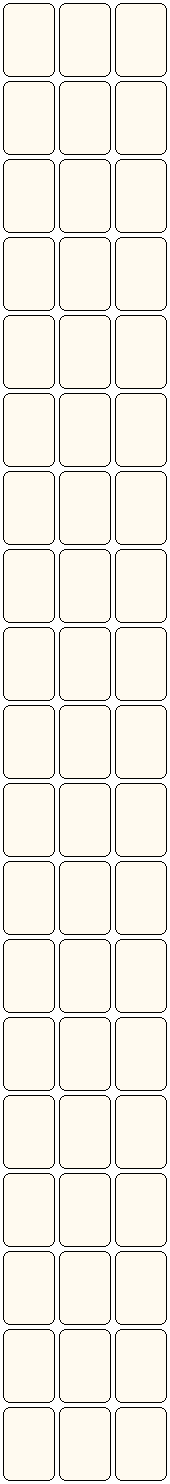
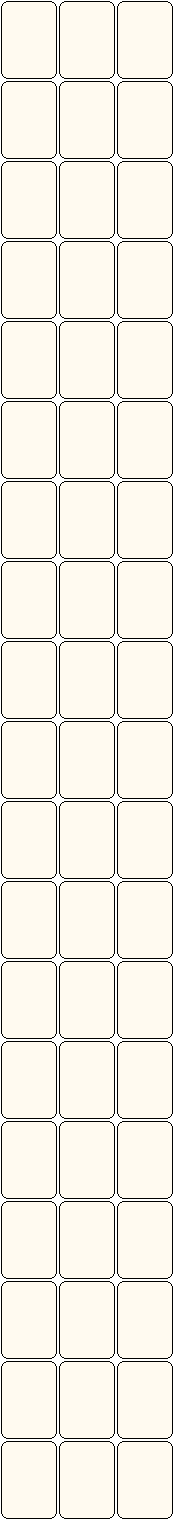
new card-writer for larger size; game settings adjusted

Changed region(s): [[0.0, 0.0, 1.0, 1.0]]

diff --git a/src/scenes/game-scene.ts b/src/scenes/game-scene.ts
@@ -6,11 +6,12 @@ import { FoundationPile } from '../lib/foundation-pile';
 
 const DEBUG = false;
 // scale factor for card image game objects
-const SCALE = 1.5;
+const SCALE = 1;
 // vertical gap between stacked cards i.e. in tableau
-const STACK_Y_GAP = 22; 
+const STACK_Y_GAP = 23; 
 // frame of card spritesheet for back of a card
 const CARD_BACK_FRAME = 56;
+
 // x & y positions of the 4 foundation piles
 const FOUNDATION_PILE_X_POSITIONS = [360, 425, 490, 555];
 const FOUNDATION_PILE_Y_POSITION = 5;

diff --git a/src/scenes/preload-scene.ts b/src/scenes/preload-scene.ts
@@ -12,6 +12,8 @@ export class PreloadScene extends Phaser.Scene {
     this.load.spritesheet(ASSET_KEYS.CARDS, 'assets/images/cards.png', {
       frameWidth: CARD_WIDTH,
       frameHeight: CARD_HEIGHT,
+      spacing: 2,
+      margin: 1,
     });
   }
 

diff --git a/src/scenes/common.ts b/src/scenes/common.ts
@@ -10,5 +10,5 @@ export const ASSET_KEYS = {
   CARDS: 'CARDS',
 } as const;
 
-export const CARD_WIDTH = 37;
-export const CARD_HEIGHT = 52;
+export const CARD_WIDTH = 56;
+export const CARD_HEIGHT = 78;

diff --git a/dev/code/cards_maker_56x78.py b/dev/code/cards_maker_56x78.py
@@ -1,0 +1,138 @@
+from PIL import Image, ImageDraw, ImageFont
+import os
+import shutil
+from datetime import datetime
+
+def generate_cards():
+    # card dimensions and layout
+    card_width = 56
+    card_height = 78
+    card_spacing = 2 # 0 for tight deck spritesheet
+    cards_across = 3
+    border_size = 1
+    
+    # suit colours (hearts, diamonds, spades, clubs)
+    suit_colours = [
+        (90, 90, 90), # clubs - dark grey
+        # (100, 150, 255), # clubs - light blue
+        (237, 74, 123), # diamonds - light red 
+        (255, 15, 15),   # hearts - red
+        # (68, 51, 194)    # spades - blue
+        (20, 20, 20)    # spades - black
+    ]
+    
+    # card values for each suit
+    card_values = ['A', '2', '3', '4', '5', '6', '7', '8', '9', 'T', 'J', 'Q', 'K']
+
+    suit_symbols = ['♣', '♦', '♥', '♠']  # clubs, diamonds, hearts, spades
+    suit_letters = ['c', 'd', 'h', 's']
+
+    # load blank cards image
+    input_path = "dev/art/cards_blank_56x78_corner-7.png"; # version with card edging
+    output_path = "public/assets/images/cards.png"
+    # input_path = "dev/art/cards_blank_56x78_corner-7-tight.png"; # version with card edging
+    # output_path = "public/assets/images/cards-tight.png"
+    
+    try:
+        img = Image.open(input_path)
+        draw = ImageDraw.Draw(img)
+        phFont = ImageFont.truetype("/System/Library/Fonts/Arial.ttf", 38)  # was 24
+        fontsmall = ImageFont.truetype("/System/Library/Fonts/Arial.ttf", 19)  # was 13
+        fontSymbol = ImageFont.truetype("/System/Library/Fonts/Arial.ttf", 24)  # was 15           
+        
+        # generate 52 cards (4 suits × 13 values)
+        card_position = 0
+        
+        for suit_index, colour in enumerate(suit_colours):
+            symbol = suit_symbols[suit_index]
+            suitLetter = suit_letters[suit_index]
+
+            for value in card_values:
+                if card_position >= 52:
+                    break
+                    
+                # calculate grid position
+                row = card_position // cards_across
+                col = card_position % cards_across
+
+                # get card top left corner
+                xt = border_size + col * (card_width + card_spacing) 
+                yt = border_size + row * (card_height + card_spacing) 
+              
+                # get card centre, in pixels
+                x = border_size + col * (card_width + card_spacing) + card_width // 2
+                y = border_size + row * (card_height + card_spacing) + card_height // 2
+                
+                # draw text centred, get text bounding box
+                bbox = draw.textbbox((0, 0), value, font=phFont)
+                text_width = bbox[2] - bbox[0]
+                text_height = bbox[3] - bbox[1]
+
+                # 1. Colored rectangle (card area minus a white margin)
+                # Placeholder will be replaced by Suit theme art
+                margin = 8
+                topmargin = 24 # was 14
+                rect_x1 = x - card_width//2 + margin
+                rect_y1 = y - card_height//2 + topmargin 
+                rect_x2 = x + card_width//2 - margin -1
+                rect_y2 = y + card_height//2 - margin -1
+                # draw.rectangle([rect_x1, rect_y1, rect_x2, rect_y2], fill=colour)
+                graphic_y = rect_y1 + 4  # start below top area
+                graphic_height = (rect_y2 - rect_y1) - 15  # most of the remaining card height
+                draw.rounded_rectangle([rect_x1, graphic_y, rect_x2, rect_y2], 
+                                      radius=9, fill=colour, outline=colour, width=1)
+
+                # 2. White text super-imposed on colour rectangle
+                text_x = x - text_width // 2
+                text_y = y - text_height // 2 + 4
+
+                draw.text((text_x, text_y), suitLetter, fill=(255,255,255), font=phFont)
+
+                # 3. Small identifiers visible when card stacked
+                draw.text((xt + 7, yt + 2), value, fill=colour, font=fontsmall)  # was xt+3, yt
+
+                #4. suit symbol, diamond small in font
+                if (suitLetter == 'd'):
+                  fontSymbol = ImageFont.truetype("/System/Library/Fonts/Arial.ttf", 27)    
+                else:
+                  fontSymbol = ImageFont.truetype("/System/Library/Fonts/Arial.ttf", 24)
+
+                topIndent = -2
+                rightIndent = 21
+
+                if (suitLetter == 'h'):
+                  topIndent = topIndent + 1
+                  rightIndent = rightIndent + 2
+
+                elif (suitLetter == 'c'):
+                  topIndent = topIndent
+                  rightIndent = rightIndent + 3
+
+                elif (suitLetter == 'd'):
+                  topIndent = topIndent - 2
+
+                draw.text((xt + card_width - rightIndent, yt + topIndent), symbol, fill=colour, font=fontSymbol)
+                
+                card_position += 1
+        
+        # backup existing file before saving
+        if os.path.exists(output_path):
+            timestamp = datetime.now().strftime("%Y%m%d_%H%M")
+            backup_path = f"dev/art/archive/cards_{timestamp}.png"
+            shutil.copy2(output_path, backup_path)
+            print(f"Backed up existing cards image to: {backup_path}")
+
+        # save the result
+        img.save(output_path)
+        print(f"Generated cards saved to: {output_path}")
+        print(f"Created {card_position} cards")
+        print("Card backs (positions 53-57) left unchanged")
+        
+    except FileNotFoundError:
+        print(f"Error: Could not find input file: {input_path}")
+        print("Make sure the file exists and path is correct")
+    except Exception as e:
+        print(f"Error: {e}")
+
+if __name__ == "__main__":
+    generate_cards()

diff --git a/dev/code/blank_deck_maker.py b/dev/code/blank_deck_maker.py
@@ -3,47 +3,46 @@ import os
 
 
 def create_blank_cards_template():
-    """create blank playing cards template at 56x78px per card"""
-    
-    # card and layout dimensions
+    """make deck of blank playing cards at 56 by 78 pixels per card"""
     card_width = 56
     card_height = 78
     cards_across = 3
     cards_down = 19
     border_size = 1
-    card_spacing = 0  # no spacing between cards for cleaner generation
+    card_spacing = 2  # spacing between card frames
     
     # calculate total image size
     total_width = border_size * 2 + cards_across * card_width + card_spacing * (cards_across - 1)
     total_height = border_size * 2 + cards_down * card_height + card_spacing * (cards_down - 1)
     
-    print(f"creating blank cards template: {total_width}x{total_height}px")
-    print(f"card size: {card_width}x{card_height}px")
+    print(f"Making blank cards template: {total_width}x{total_height}px")
+    print(f"Card size: {card_width}x{card_height}px")
     
-    # create image with transparency
+    # make image with transparency
     img = Image.new('RGBA', (total_width, total_height), (0, 0, 0, 0))  # transparent background
     draw = ImageDraw.Draw(img)
     
     # card settings
-    fill_colour = (255, 250, 240, 255)  # slightly cream white
+    fill_colour = (255, 250, 240, 255)  # cream white
     corner_radius = 7  # rounded corners
-    margin = 2  # internal margin from frame edge
-    outline_colour = (0, 0, 0, 255)  # thin black border
-    stroke_width = 1  # thin border
+
+    ## border essential when cards are stacked or otherwise overlap.
+    outline_colour = (0, 0, 0, 255)  # black
+    stroke_width = 1  # looks enough
     
     # draw each card
     for row in range(cards_down):
         for col in range(cards_across):
-            # calculate card position with internal margin
-            x = border_size + col * (card_width + card_spacing) + margin
-            y = border_size + row * (card_height + card_spacing) + margin
+            # calculate card position
+            x = border_size + col * (card_width + card_spacing)
+            y = border_size + row * (card_height + card_spacing)
             
             # draw rounded rectangle for card - outline and fill
             draw_rounded_rectangle(
                             draw, 
                             x, y, 
-                            x + card_width - 1 - (margin * 2), 
-                            y + card_height - 1 - (margin * 2),
+                            x + card_width - 1, 
+                            y + card_height - 1,
                             corner_radius,
                             fill_colour,
                             outline_colour,
@@ -54,18 +53,15 @@ def create_blank_cards_template():
     output_path = "dev/art/cards_blank_56x78_corner-7.png"
     os.makedirs(os.path.dirname(output_path), exist_ok=True)
     img.save(output_path)
-    print(f"saved blank cards template: {output_path}")
+    print(f"Saved blank cards template at: {output_path}")
     
     return output_path
 
 
 def draw_rounded_rectangle(draw, x1, y1, x2, y2, radius, fill, outline, width):
-    """draw rounded rectangle with thin outline"""
     draw.rounded_rectangle([x1, y1, x2, y2], radius=radius, fill=fill, outline=outline, width=width)
 
 
 if __name__ == "__main__":
     template_path = create_blank_cards_template()
-    # update_cards_maker_for_new_template()
     print(f"\nBlank template ready at: {template_path}")
-    print("Update your cards_maker.py with the changes above, then regenerate your cards!")
